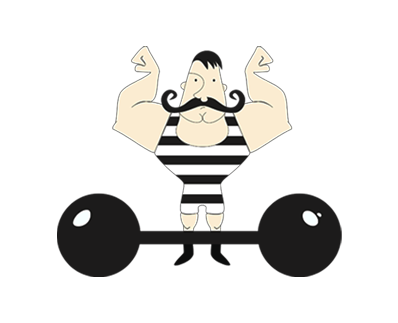
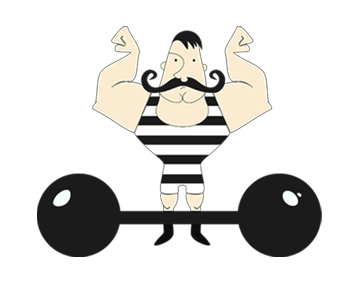
with correct

Changed region(s): [[0.0922, 0.0848, 0.9218, 0.9329]]

diff --git a/publichtml/index.html b/publichtml/index.html
@@ -5,8 +5,8 @@
     <meta charset="utf-8">
     <meta name="description" content="">
     <meta name="viewport" content="width=device-width, initial-scale=1">
-    <meta name="keyword" content="hvat, horn, captains, crush, grippers, rolling, thunder, eagle, loops, blob, lift, vertical, bar, lift, euro, pinch, ironmind, hub, inch, dumbbell, nails, bending, apollon's, axle">
-    <link type="text/css" rel="stylesheet" href="asses/css/reset.css"/>
+    <meta name="keyword" content="hvat, little bighorn, captains of crush grippers, rolling thunder, eagle loops, blob lift,  ">
+    <link type="text/css" rel="stylesheet" href="assets/css/reset.css"/>
     <link type="text/css" rel="stylesheet" href="assets/css/styles.css"/>
     <link href='https://fonts.googleapis.com/css?family=Berkshire+Swash' rel='stylesheet' type='text/css'>
     <link href='https://fonts.googleapis.com/css?family=Pattaya&subset=latin,cyrillic' rel='stylesheet' type='text/css'>
@@ -17,7 +17,7 @@
       <div class="header">
         <div class="main-logo">
           <a href="http://hvat.com.ua">
-            <img src="assets/images/hvat_logo_re.png" alt="Main logo" width="218" height="122">
+            <img src="assets/images/hvat-logo-r.png" alt="Main logo" width="218" height="122">
           </a>
         </div> 
       </div> 
@@ -42,7 +42,7 @@
           <div class="category-image-wraper">
            <img src="assets/images/captains_of_crush_grippers.png" alt="Captains of Crush Grippers" width="210" height="210">
           </div>
-          <div class="category-label">Captains of Crush Grippers</div>
+          <div class="category-label">Grippers</div>
         </div>
         <div class="category-wraper">
           <div class="category-image-wraper">
@@ -99,7 +99,7 @@
           <div class="category-label">Apollon`s Axle</div>
         </div>
         <div class="dummy-annotation-image">
-          <img src="assets/images/str_man_dl.png" alt="Strongman" width="398" height="323">
+          <img class="dummy-annotation-image-img" src="assets/images/str_man_dl.png" alt="Strongman" width="358" height="283">
         </div>
       </div>
       <div class="stars-over-footer"></div>

diff --git a/publichtml/assets/css/styles.css b/publichtml/assets/css/styles.css
@@ -1,5 +1,6 @@
 html {
   height: 100%;
+  width: 100%;
 }
 
 body {
@@ -25,8 +26,7 @@ body {
 }
 
 .main-logo {
-  padding-left: 52px;
-  padding-top: 52px;
+  padding: 52px 0px 0px 52px;
 }
 
 .stars {
@@ -47,8 +47,7 @@ body {
 }
 
 .annotation-image {
-  margin-top: -15px;
-  margin-left: 30px;
+  margin: -15px 0px 0px 30px;
 }
 
 .annotation {
@@ -93,15 +92,14 @@ body {
   align-items: center;
   align-content: space-around;
   margin-top: 12px;
+  height: 100%;
 }
 
 .category-wraper {
   width: 255px;
-  height: 355px;
+  height: 321px;
   background-color: #294a5d;
-  margin: 0 auto;
-  margin-top: 16px;
-  margin-bottom: 16px;
+  margin: 16px auto;
   box-shadow: 0px 3px 6px -1px #c0c0c0;
   border-radius: 7px;
 }
@@ -109,7 +107,7 @@ body {
 .category-image-wraper {
   width: 210px;
   height: 210px;
-  border-radius: 12px;
+  border-radius: 9px;
   background-color: #f6e3c0;
   margin: 0 auto;
   margin-top: 24px;
@@ -121,26 +119,26 @@ body {
 
 .category-label {
   width: 210px;
-  height: 62px;
-  border-radius: 12px;
+  height: 35px;
+  border-radius: 9px;
   background-color: #f6e3c0;
   text-align: center;
   margin: 0 auto;
-  margin-top: 27px;
+  margin-top: 20px;
   font-family: 'Berkshire Swash', cursive;
   font-size: 23px;
-  padding-top: 4px;
+  padding-top: 9px;
   text-shadow: 3px 3px 3px #aaa;
 }
 
 .dummy-annotation-image {
-  margin-top: 70px;
+  margin-top: 33px;
   width: 292px;
   height: 318px;
 }
 
-.dummy-annotation-image img {
-  margin-left: -60px;
+.dummy-annotation-image-img {
+  margin-left: -44px;
 }
 
 .stars-over-footer {
